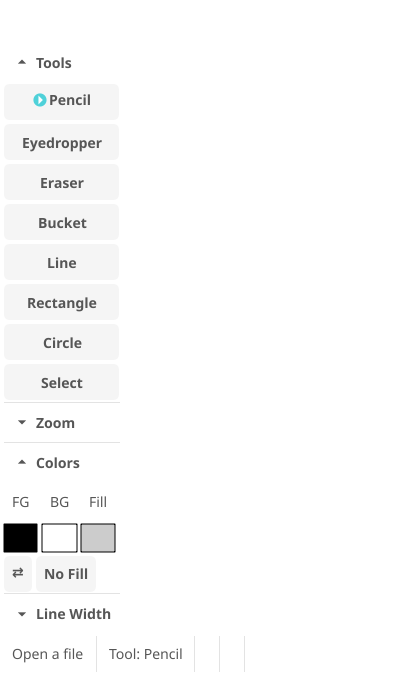
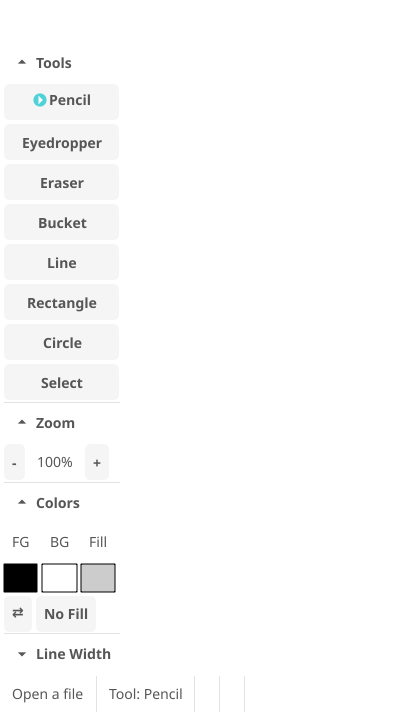
test speedups for pixeledit

diff --git a/ported-apps/pixeledit/pixeledit.test.ts b/ported-apps/pixeledit/pixeledit.test.ts
@@ -50,13 +50,13 @@ describe('Pixel Editor Tests', () => {
 
     // Verify tools - Pencil is selected by default so has ▶ prefix
     // Note: Accordion section titles like 'Tools' are not exposed as widgets
-    await ctx.expect(ctx.getByText('▶ Pencil')).toBeVisible();
-    await ctx.expect(ctx.getByText('Eyedropper')).toBeVisible();
+    await ctx.getByID('tool-pencil').within(500).shouldContain('▶');
+    await ctx.getByID('tool-eyedropper').within(500).shouldExist();
 
     // Verify power-of-2 zoom controls (shown as percentage)
-    await ctx.expect(ctx.getByText('100%')).toBeVisible();
-    await ctx.expect(ctx.getByText('-')).toBeVisible();
-    await ctx.expect(ctx.getByText('+')).toBeVisible();
+    await ctx.getByID('zoom-level').within(500).shouldExist();
+    await ctx.getByID('zoom-out').within(500).shouldExist();
+    await ctx.getByID('zoom-in').within(500).shouldExist();
 
     // Verify color labels are visible
     await ctx.expect(ctx.getByText('FG')).toBeVisible();
@@ -84,18 +84,18 @@ describe('Pixel Editor Tests', () => {
       await testApp.run();
 
       // Initial zoom should be 100%
-      await ctx.expect(ctx.getByText('100%')).toBeVisible();
+      await ctx.getByID('zoom-level').within(2000).shouldBe('100%');
 
-      // Click zoom in - test that button is clickable
-      await ctx.getByText('+').click();
-      await ctx.wait(50);
+      // Click zoom in
+      await ctx.getByID('zoom-in').click();
+      await ctx.getByID('zoom-level').within(500).shouldBe('200%');
 
-      // Verify zoom buttons are still functional
-      await ctx.expect(ctx.getByText('+')).toBeVisible();
-      await ctx.expect(ctx.getByText('-')).toBeVisible();
+      // Zoom in again
+      await ctx.getByID('zoom-in').click();
+      await ctx.getByID('zoom-level').within(500).shouldBe('400%');
     });
 
-    test('should zoom out by halving (800% -> 400% -> 200%)', async () => {
+    test('should zoom out by halving (400% -> 200% -> 100%)', async () => {
       const testApp = await tsyneTest.createApp((app) => {
         createPixelEditorApp(app);
       });
@@ -103,19 +103,19 @@ describe('Pixel Editor Tests', () => {
       ctx = tsyneTest.getContext();
       await testApp.run();
 
-      // Initial zoom should be 100%
-      await ctx.expect(ctx.getByText('100%')).toBeVisible();
+      // Zoom in to 400% first
+      await ctx.getByID('zoom-in').within(2000).click();
+      await ctx.getByID('zoom-level').within(500).shouldBe('200%');
+      await ctx.getByID('zoom-in').click();
+      await ctx.getByID('zoom-level').within(500).shouldBe('400%');
 
-      // Click zoom out - at minimum it should stay at 100%
-      await ctx.getByText('-').click();
-      await ctx.wait(50);
+      // Zoom out
+      await ctx.getByID('zoom-out').click();
+      await ctx.getByID('zoom-level').within(500).shouldBe('200%');
 
-      // Verify zoom buttons are still functional
-      await ctx.expect(ctx.getByText('+')).toBeVisible();
-      await ctx.expect(ctx.getByText('-')).toBeVisible();
-
-      // At minimum zoom, should still show 100%
-      await ctx.expect(ctx.getByText('100%')).toBeVisible();
+      // Zoom out again
+      await ctx.getByID('zoom-out').click();
+      await ctx.getByID('zoom-level').within(500).shouldBe('100%');
     });
 
     test('should not zoom below 100%', async () => {
@@ -127,14 +127,13 @@ describe('Pixel Editor Tests', () => {
       await testApp.run();
 
       // Initial zoom is 100%
-      await ctx.expect(ctx.getByText('100%')).toBeVisible();
+      await ctx.getByID('zoom-level').within(2000).shouldBe('100%');
 
       // Try to zoom out below minimum
-      await ctx.getByText('-').click();
-      await ctx.wait(100);
+      await ctx.getByID('zoom-out').click();
 
       // Should still be 100%
-      await ctx.expect(ctx.getByText('100%')).toBeVisible();
+      await ctx.getByID('zoom-level').within(500).shouldBe('100%');
     });
 
     test('should not zoom above 1600%', async () => {
@@ -146,14 +145,18 @@ describe('Pixel Editor Tests', () => {
       await testApp.run();
 
       // Zoom in many times to reach maximum (1 -> 2 -> 4 -> 8 -> 16)
-      for (let i = 0; i < 10; i++) {
-        await ctx.getByText('+').click();
-        await ctx.wait(20);
-      }
-      await ctx.wait(100);
+      await ctx.getByID('zoom-in').within(2000).click();
+      await ctx.getByID('zoom-level').within(500).shouldBe('200%');
+      await ctx.getByID('zoom-in').click();
+      await ctx.getByID('zoom-level').within(500).shouldBe('400%');
+      await ctx.getByID('zoom-in').click();
+      await ctx.getByID('zoom-level').within(500).shouldBe('800%');
+      await ctx.getByID('zoom-in').click();
+      await ctx.getByID('zoom-level').within(500).shouldBe('1600%');
 
-      // Should be at maximum 1600%
-      await ctx.expect(ctx.getByText('1600%')).toBeVisible();
+      // Try to zoom past maximum - should stay at 1600%
+      await ctx.getByID('zoom-in').click();
+      await ctx.getByID('zoom-level').within(500).shouldBe('1600%');
     });
   });
 
@@ -167,18 +170,16 @@ describe('Pixel Editor Tests', () => {
       await testApp.run();
 
       // Pencil is selected by default (has ▶ prefix), Eyedropper is not
-      await ctx.expect(ctx.getByText('▶ Pencil')).toBeVisible();
-      await ctx.expect(ctx.getByText('Eyedropper')).toBeVisible();
+      await ctx.getByID('tool-pencil').within(2000).shouldContain('▶');
+      await ctx.getByID('tool-eyedropper').within(500).shouldExist();
 
       // Click on Eyedropper tool - now it gets the ▶ prefix
-      await ctx.getByText('Eyedropper').click();
-      await ctx.wait(30);
-      await ctx.expect(ctx.getByText('▶ Eyedropper')).toBeVisible();
+      await ctx.getByID('tool-eyedropper').click();
+      await ctx.getByID('tool-eyedropper').within(500).shouldContain('▶');
 
       // Click back on Pencil - now Pencil gets the ▶ prefix again
-      await ctx.getByText('Pencil').click();
-      await ctx.wait(30);
-      await ctx.expect(ctx.getByText('▶ Pencil')).toBeVisible();
+      await ctx.getByID('tool-pencil').click();
+      await ctx.getByID('tool-pencil').within(500).shouldContain('▶');
     });
 
     test('should maintain UI consistency after rapid tool switching', async () => {
@@ -189,21 +190,19 @@ describe('Pixel Editor Tests', () => {
       ctx = tsyneTest.getContext();
       await testApp.run();
 
-      // Rapid tool switching - after each click, the clicked tool gets ▶ prefix
-      await ctx.getByText('Eyedropper').click();
-      await ctx.wait(20);
-      await ctx.getByText('Pencil').click();
-      await ctx.wait(20);
-      await ctx.getByText('Eyedropper').click();
-      await ctx.wait(20);
-      await ctx.getByText('Pencil').click();
-      await ctx.wait(50);
+      // Rapid tool switching
+      await ctx.getByID('tool-eyedropper').within(2000).click();
+      await ctx.getByID('tool-eyedropper').within(500).shouldContain('▶');
+      await ctx.getByID('tool-pencil').click();
+      await ctx.getByID('tool-pencil').within(500).shouldContain('▶');
+      await ctx.getByID('tool-eyedropper').click();
+      await ctx.getByID('tool-eyedropper').within(500).shouldContain('▶');
+      await ctx.getByID('tool-pencil').click();
+      await ctx.getByID('tool-pencil').within(500).shouldContain('▶');
 
-      // UI should still be functional - Pencil is now selected
-      await ctx.expect(ctx.getByText('▶ Pencil')).toBeVisible();
-      await ctx.expect(ctx.getByText('Eyedropper')).toBeVisible();
-      await ctx.expect(ctx.getByText('100%')).toBeVisible();
-      await ctx.expect(ctx.getByText('FG')).toBeVisible();
+      // UI should still be functional
+      await ctx.getByID('zoom-level').within(500).shouldExist();
+      await ctx.getByText('FG').within(500).shouldExist();
     });
   });
 
@@ -278,31 +277,30 @@ describe('Pixel Editor Tests', () => {
       await testApp.run();
 
       // Start at 100% zoom
-      await ctx.expect(ctx.getByText('100%')).toBeVisible();
+      await ctx.getByID('zoom-level').within(2000).shouldBe('100%');
 
-      // Perform mixed operations: zoom and tool switching
-      await ctx.getByText('+').click();
-      await ctx.wait(30);
+      // Zoom in
+      await ctx.getByID('zoom-in').click();
+      await ctx.getByID('zoom-level').within(500).shouldBe('200%');
 
       // Switch to Eyedropper tool
-      await ctx.getByText('Eyedropper').click();
-      await ctx.wait(50);
+      await ctx.getByID('tool-eyedropper').within(500).click();
+      await ctx.getByID('tool-eyedropper').within(500).shouldContain('▶');
 
       // Color label should still be visible
-      await ctx.expect(ctx.getByText('FG')).toBeVisible();
+      await ctx.getByText('FG').within(500).shouldExist();
 
       // Zoom out once
-      await ctx.getByText('-').click();
-      await ctx.wait(30);
+      await ctx.getByID('zoom-out').click();
+      await ctx.getByID('zoom-level').within(500).shouldBe('100%');
 
       // Switch back to Pencil
-      await ctx.getByText('Pencil').click();
-      await ctx.wait(100);
+      await ctx.getByID('tool-pencil').click();
+      await ctx.getByID('tool-pencil').within(500).shouldContain('▶');
 
       // Verify UI is still responsive after mixed operations
-      await ctx.expect(ctx.getByText('▶ Pencil')).toBeVisible();
-      await ctx.expect(ctx.getByText('Eyedropper')).toBeVisible();
-      await ctx.expect(ctx.getByText('FG')).toBeVisible();
+      await ctx.getByID('tool-eyedropper').within(500).shouldExist();
+      await ctx.getByText('FG').within(500).shouldExist();
     });
 
     test('should maintain UI consistency after rapid operations', async () => {
@@ -314,33 +312,33 @@ describe('Pixel Editor Tests', () => {
       await testApp.run();
 
       // Rapid tool switching
-      await ctx.getByText('Eyedropper').click();
-      await ctx.wait(20);
-      await ctx.getByText('Pencil').click();
-      await ctx.wait(20);
-      await ctx.getByText('Eyedropper').click();
-      await ctx.wait(20);
-      await ctx.getByText('Pencil').click();
-      await ctx.wait(50);
+      await ctx.getByID('tool-eyedropper').within(2000).click();
+      await ctx.getByID('tool-eyedropper').within(500).shouldContain('▶');
+      await ctx.getByID('tool-pencil').click();
+      await ctx.getByID('tool-pencil').within(500).shouldContain('▶');
+      await ctx.getByID('tool-eyedropper').click();
+      await ctx.getByID('tool-eyedropper').within(500).shouldContain('▶');
+      await ctx.getByID('tool-pencil').click();
+      await ctx.getByID('tool-pencil').within(500).shouldContain('▶');
 
       // Rapid zoom operations
-      await ctx.getByText('+').click();
-      await ctx.wait(20);
-      await ctx.getByText('+').click();
-      await ctx.wait(20);
-      await ctx.getByText('-').click();
-      await ctx.wait(20);
-      await ctx.getByText('+').click();
-      await ctx.wait(100);
+      await ctx.getByID('zoom-in').click();
+      await ctx.getByID('zoom-level').within(500).shouldBe('200%');
+      await ctx.getByID('zoom-in').click();
+      await ctx.getByID('zoom-level').within(500).shouldBe('400%');
+      await ctx.getByID('zoom-out').click();
+      await ctx.getByID('zoom-level').within(500).shouldBe('200%');
+      await ctx.getByID('zoom-in').click();
+      await ctx.getByID('zoom-level').within(500).shouldBe('400%');
 
       // UI should still be functional - Pencil is selected
-      await ctx.expect(ctx.getByText('▶ Pencil')).toBeVisible();
-      await ctx.expect(ctx.getByText('Eyedropper')).toBeVisible();
-      await ctx.expect(ctx.getByText('+')).toBeVisible();
-      await ctx.expect(ctx.getByText('-')).toBeVisible();
+      await ctx.getByID('tool-pencil').within(500).shouldContain('▶');
+      await ctx.getByID('tool-eyedropper').within(500).shouldExist();
+      await ctx.getByID('zoom-in').within(500).shouldExist();
+      await ctx.getByID('zoom-out').within(500).shouldExist();
 
       // Color label should still be visible
-      await ctx.expect(ctx.getByText('FG')).toBeVisible();
+      await ctx.getByText('FG').within(500).shouldExist();
     });
   });
 
@@ -356,25 +354,25 @@ describe('Pixel Editor Tests', () => {
       // Note: Accordion section titles like 'Tools' are not exposed as widgets
 
       // Bottom status section
-      await ctx.expect(ctx.getByExactText('Open a file')).toBeVisible();
+      await ctx.getByExactText('Open a file').within(2000).shouldExist();
 
       // Tools - Pencil is selected by default
-      await ctx.expect(ctx.getByText('▶ Pencil')).toBeVisible();
-      await ctx.expect(ctx.getByText('Eyedropper')).toBeVisible();
+      await ctx.getByID('tool-pencil').within(500).shouldContain('▶');
+      await ctx.getByID('tool-eyedropper').within(500).shouldExist();
 
       // Zoom controls
-      await ctx.expect(ctx.getByText('100%')).toBeVisible();
-      await ctx.expect(ctx.getByText('+')).toBeVisible();
-      await ctx.expect(ctx.getByText('-')).toBeVisible();
+      await ctx.getByID('zoom-level').within(500).shouldBe('100%');
+      await ctx.getByID('zoom-in').within(500).shouldExist();
+      await ctx.getByID('zoom-out').within(500).shouldExist();
 
       // Color controls - labels only, colors are rectangle previews
-      await ctx.expect(ctx.getByText('FG')).toBeVisible();
-      await ctx.expect(ctx.getByText('BG')).toBeVisible();
+      await ctx.getByText('FG').within(500).shouldExist();
+      await ctx.getByText('BG').within(500).shouldExist();
 
       // Toolbar
-      await ctx.expect(ctx.getByText('Open')).toBeVisible();
-      await ctx.expect(ctx.getByText('Reset')).toBeVisible();
-      await ctx.expect(ctx.getByText('Save')).toBeVisible();
+      await ctx.getByText('Open').within(500).shouldExist();
+      await ctx.getByText('Reset').within(500).shouldExist();
+      await ctx.getByText('Save').within(500).shouldExist();
     });
   });
 

diff --git a/ported-apps/pixeledit/pixeledit.ts b/ported-apps/pixeledit/pixeledit.ts
@@ -2260,7 +2260,8 @@ class PixelEditor {
             for (const tool of this.tools) {
               const isSelected = tool === this.currentTool;
               const buttonLabel = isSelected ? `▶ ${tool.name}` : tool.name;
-              const btn = this.a.button(buttonLabel).onClick(() => {
+              const toolId = `tool-${tool.name.toLowerCase()}`;
+              const btn = this.a.button(buttonLabel).withId(toolId).onClick(() => {
                 this.setTool(tool);
               });
               this.toolButtons.set(tool.name, btn);
